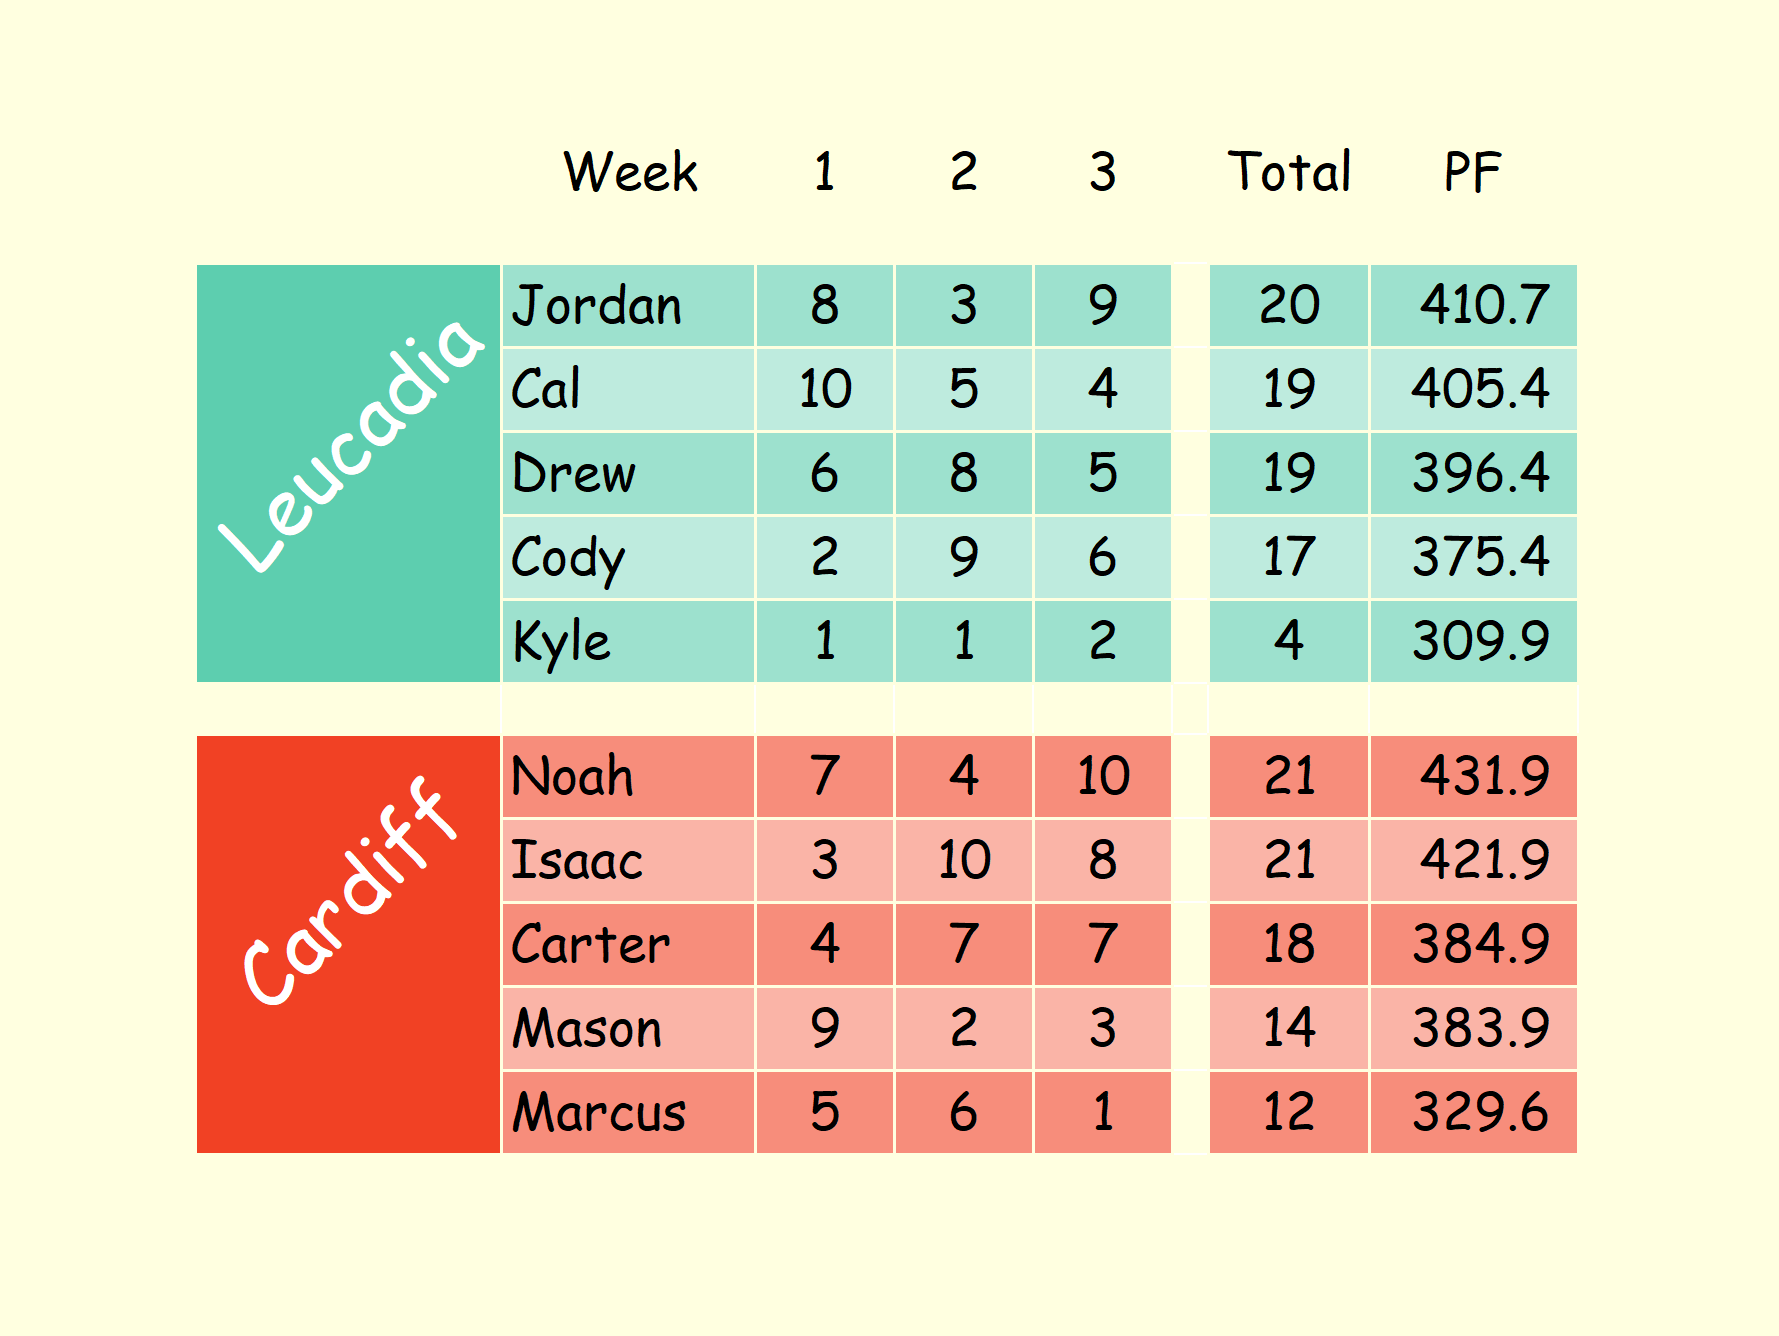
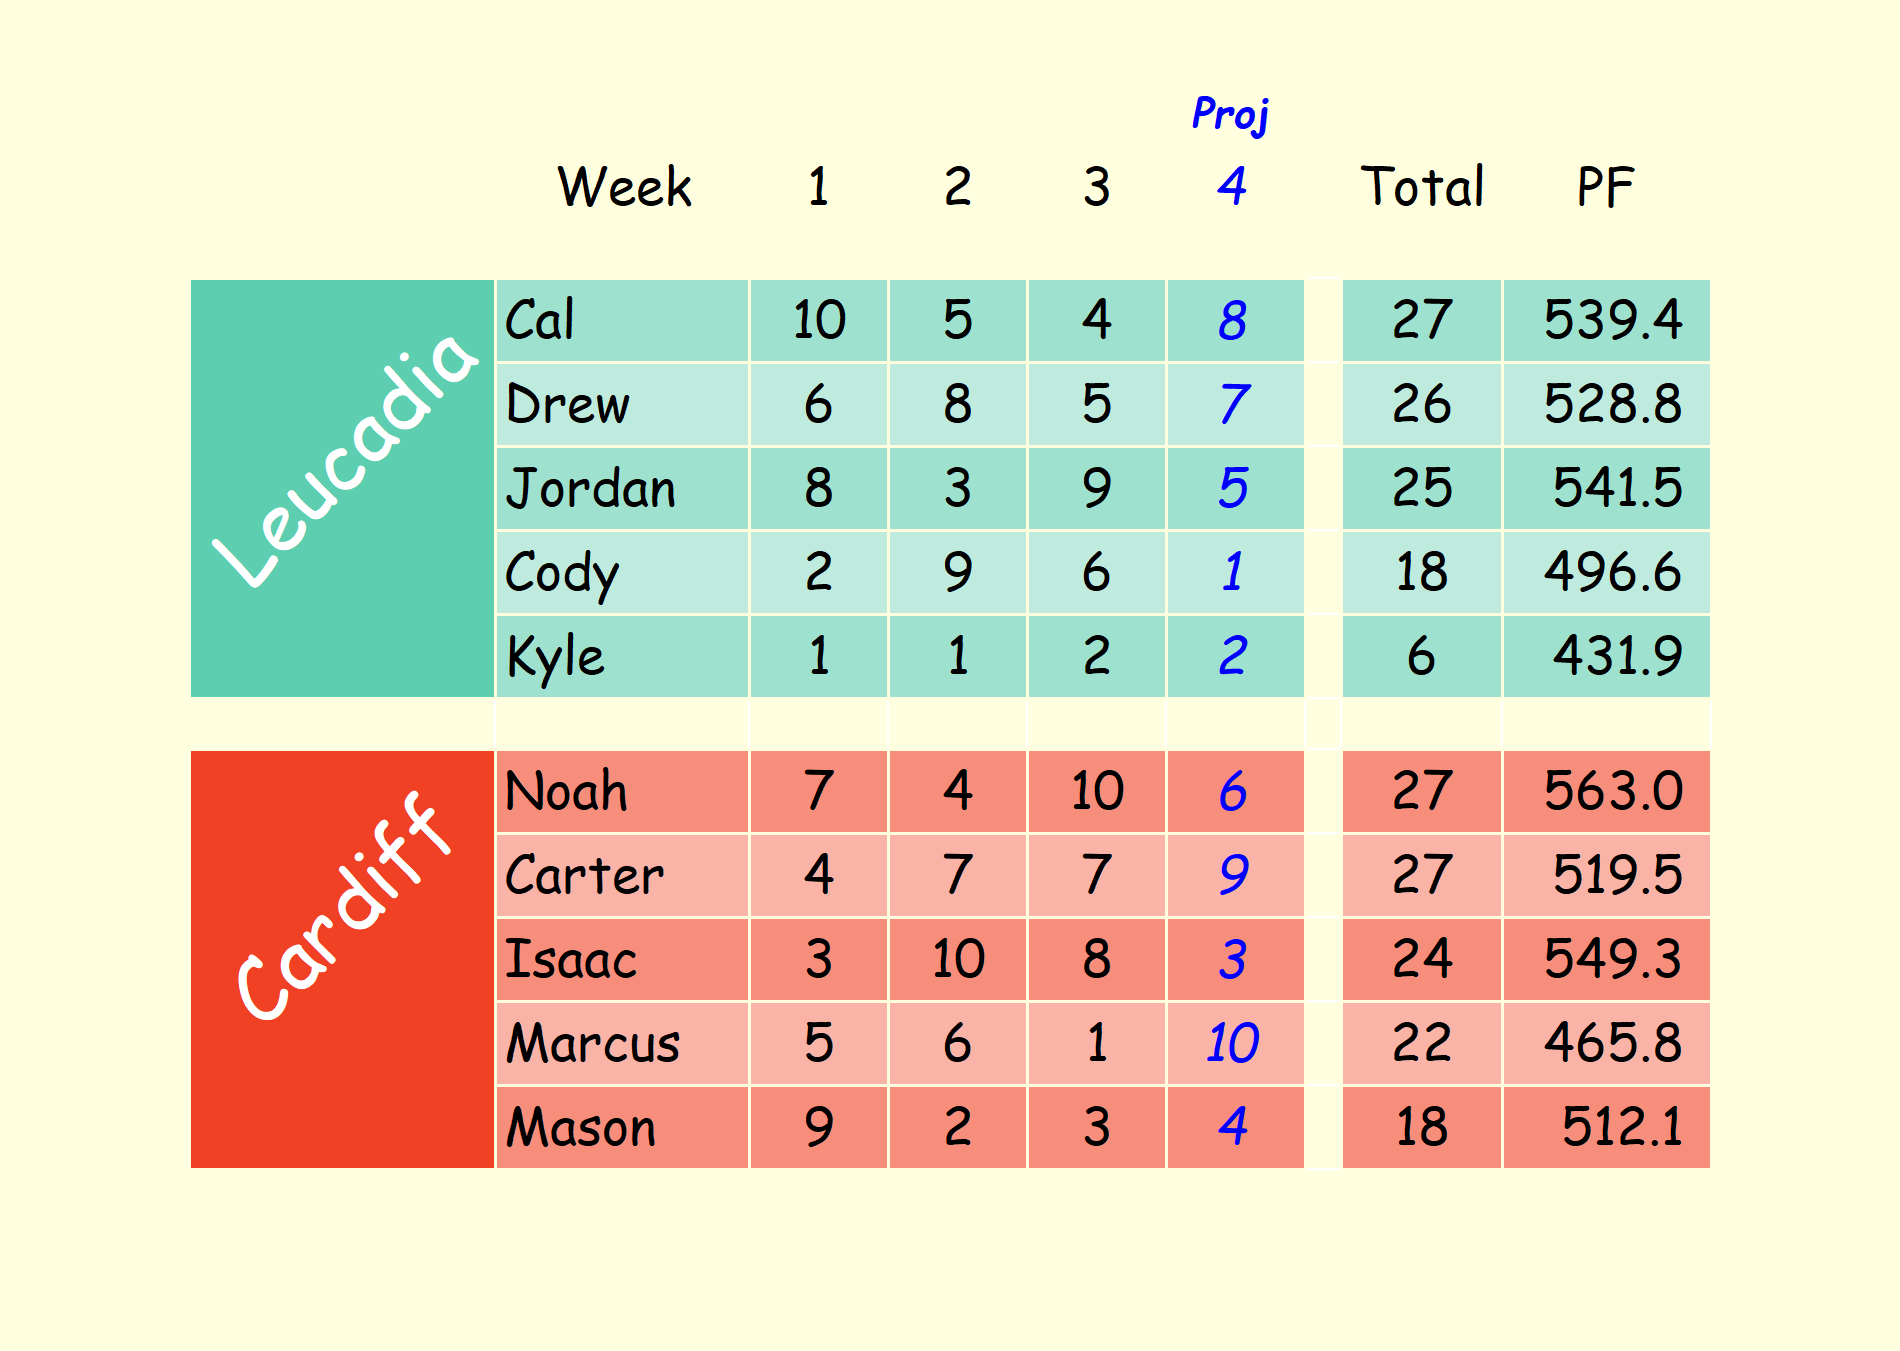
week 4 proj

diff --git a/get_scores.py b/get_scores.py
@@ -21,8 +21,8 @@ DIV = {
 
 l = League(LEAGUE_ID, 2026, ESPN_S2, SWID)
 week = l.current_week
-week = 3
-isProjected = False
+#week = 3
+isProjected = True
 
 def get_score(matchup, home_away, isProjected):
     if home_away == "home":
